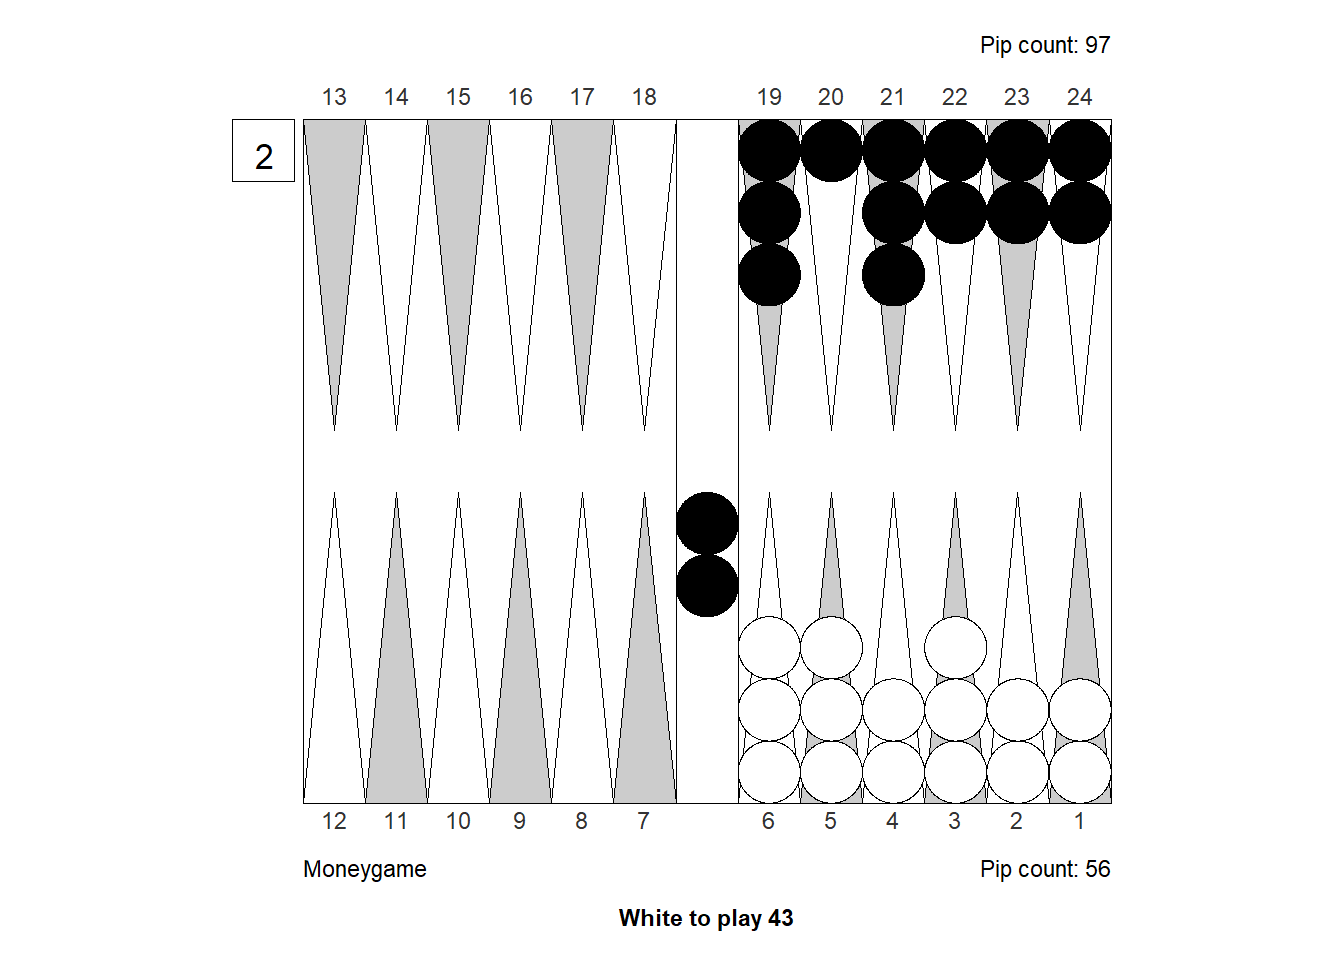
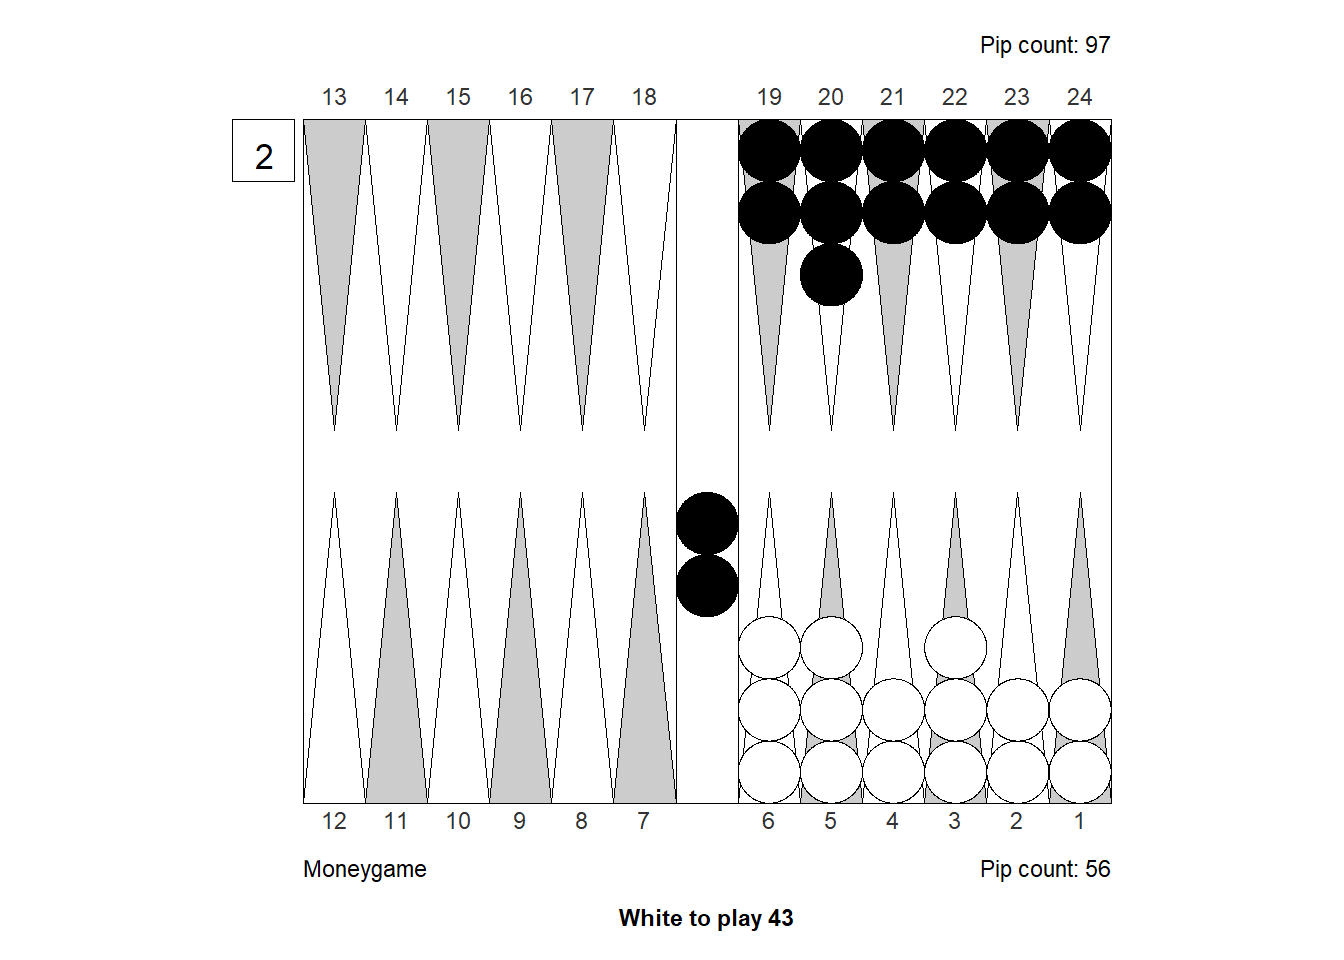
Built site for gh-pages

Changed region(s): [[0.5312, 0.1875, 0.6875, 0.3438]]

diff --git a/positional_cube.html b/positional_cube.html
@@ -231,13 +231,13 @@ Analysis
 </summary>
 <div class="cell">
 <div class="cell-output cell-output-stdout">
-<pre><code>Analyzed in 4-ply
-Player Winning Chances:   67.7% (G:18.9% B:0.7%)
-Opponent Winning Chances: 32.3% (G:7.8% B:0.3%)
+<pre><code>Analyzed in Rollout, 6480 games at 2-ply
+Player Winning Chances:   67.6% (G:18.8% B:0.8%)
+Opponent Winning Chances: 32.4% (G:7.7% B:0.3%)
 
 Cubeful Equities:
-       No double:    +0.700 (-0.019)
-       Double/take:  +0.719
+       No double:    +0.701 (-0.018)  ±0.003
+       Double/take:  +0.719  ±0.004
        Double/pass:  +1.000 (+0.281)
 
 Best Cube action: Double, take</code></pre>
@@ -262,14 +262,14 @@ Analysis
 </summary>
 <div class="cell">
 <div class="cell-output cell-output-stdout">
-<pre><code>Analyzed in 4-ply
-Player Winning Chances:   70.8% (G:24.4% B:1.0%)
-Opponent Winning Chances: 29.2% (G:7.3% B:0.3%)
+<pre><code>Analyzed in Rollout, 6480 games at 2-ply
+Player Winning Chances:   70.6% (G:25.0% B:1.1%)
+Opponent Winning Chances: 29.4% (G:7.4% B:0.3%)
 
 Cubeful Equities:
-       No double:    +0.833 (-0.157)
-       Double/take:  +0.990
-       Double/pass:  +1.000 (+0.010)
+       No double:    +0.835 (-0.157)  ±0.003
+       Double/take:  +0.992  ±0.005
+       Double/pass:  +1.000 (+0.008)
 
 Best Cube action: Double, take</code></pre>
 </div>
@@ -297,14 +297,14 @@ Analysis
 </summary>
 <div class="cell">
 <div class="cell-output cell-output-stdout">
-<pre><code>Analyzed in 4-ply
-Player Winning Chances:   69.1% (G:23.8% B:1.0%)
-Opponent Winning Chances: 30.9% (G:7.5% B:0.3%)
+<pre><code>Analyzed in Rollout, 6480 games at 2-ply
+Player Winning Chances:   69.0% (G:23.8% B:1.1%)
+Opponent Winning Chances: 31.0% (G:7.6% B:0.3%)
 
 Cubeful Equities:
-       No double:    +0.790 (-0.102)
-       Double/take:  +0.892
-       Double/pass:  +1.000 (+0.108)
+       No double:    +0.787 (-0.101)  ±0.003
+       Double/take:  +0.888  ±0.005
+       Double/pass:  +1.000 (+0.112)
 
 Best Cube action: Double, take</code></pre>
 </div>
@@ -328,14 +328,14 @@ Analysis
 </summary>
 <div class="cell">
 <div class="cell-output cell-output-stdout">
-<pre><code>Analyzed in 4-ply
-Player Winning Chances:   70.1% (G:20.0% B:0.8%)
-Opponent Winning Chances: 29.9% (G:7.3% B:0.2%)
+<pre><code>Analyzed in Rollout, 6480 games at 2-ply
+Player Winning Chances:   70.4% (G:20.0% B:0.8%)
+Opponent Winning Chances: 29.6% (G:7.1% B:0.2%)
 
 Cubeful Equities:
-       No double:    +0.783 (-0.083)
-       Double/take:  +0.866
-       Double/pass:  +1.000 (+0.134)
+       No double:    +0.796 (-0.102)  ±0.003
+       Double/take:  +0.898  ±0.004
+       Double/pass:  +1.000 (+0.102)
 
 Best Cube action: Double, take</code></pre>
 </div>

diff --git a/technical_checker.html b/technical_checker.html
@@ -379,46 +379,12 @@ Analysis
 <div class="column-body-outset quarto-layout-panel" data-layout-ncol="2">
 <div class="quarto-layout-row">
 <div class="quarto-layout-cell" style="flex-basis: 50.0%;justify-content: flex-start;">
-<p><strong>A shot and flexibility risk that breaks even</strong></p>
+<p><strong>A shot and flexibility risk worth it</strong></p>
 <div class="cell">
 <div class="cell-output-display">
 <div>
 <figure class="figure">
 <p><img src="technical_checker_files/figure-html/unnamed-chunk-10-1.png" class="img-fluid figure-img" width="672"></p>
-</figure>
-</div>
-</div>
-</div>
-<details>
-<summary>
-Analysis
-</summary>
-<div class="cell">
-<div class="cell-output cell-output-stdout">
-<pre><code>Analyzed in Rollout, 6480 games at 2-ply
-
-1. 6/3 5/1    eq: +1.228  ±0.001
-   Player:   95.7% (G:32.3% B:0.6%)
-   Opponent: 4.3% (G:0.0% B:0.0%)
-
-2. 6/2 3/off  eq: +1.202 (-0.026)  ±0.001
-   Player:   91.8% (G:39.0% B:1.0%)
-   Opponent: 8.2% (G:0.0% B:0.0%)
-
-3. 5/1 3/off  eq: +0.981 (-0.247)  ±0.002
-   Player:   83.9% (G:36.7% B:1.0%)
-   Opponent: 16.1% (G:0.0% B:0.0%)</code></pre>
-</div>
-</div>
-</details>
-</div>
-<div class="quarto-layout-cell" style="flex-basis: 50.0%;justify-content: flex-start;">
-<p><strong>A shot and flexibility risk that is worth it</strong></p>
-<div class="cell">
-<div class="cell-output-display">
-<div>
-<figure class="figure">
-<p><img src="technical_checker_files/figure-html/unnamed-chunk-12-1.png" class="img-fluid figure-img" width="672"></p>
 </figure>
 </div>
 </div>
@@ -442,6 +408,40 @@ Analysis
 3. 5/1 3/off  eq: +1.222 (-0.078)  ±0.001
    Player:   91.2% (G:42.5% B:1.2%)
    Opponent: 8.8% (G:0.0% B:0.0%)</code></pre>
+</div>
+</div>
+</details>
+</div>
+<div class="quarto-layout-cell" style="flex-basis: 50.0%;justify-content: flex-start;">
+<p><strong>A shot and flexibility risk <em>not</em> worth it</strong></p>
+<div class="cell">
+<div class="cell-output-display">
+<div>
+<figure class="figure">
+<p><img src="technical_checker_files/figure-html/unnamed-chunk-12-1.png" class="img-fluid figure-img" width="672"></p>
+</figure>
+</div>
+</div>
+</div>
+<details>
+<summary>
+Analysis
+</summary>
+<div class="cell">
+<div class="cell-output cell-output-stdout">
+<pre><code>Analyzed in Rollout, 6480 games at 2-ply
+
+1. 6/3 5/1    eq: +1.228  ±0.001
+   Player:   95.7% (G:32.3% B:0.6%)
+   Opponent: 4.3% (G:0.0% B:0.0%)
+
+2. 6/2 3/off  eq: +1.202 (-0.026)  ±0.001
+   Player:   91.8% (G:39.0% B:1.0%)
+   Opponent: 8.2% (G:0.0% B:0.0%)
+
+3. 5/1 3/off  eq: +0.981 (-0.247)  ±0.002
+   Player:   83.9% (G:36.7% B:1.0%)
+   Opponent: 16.1% (G:0.0% B:0.0%)</code></pre>
 </div>
 </div>
 </details>
